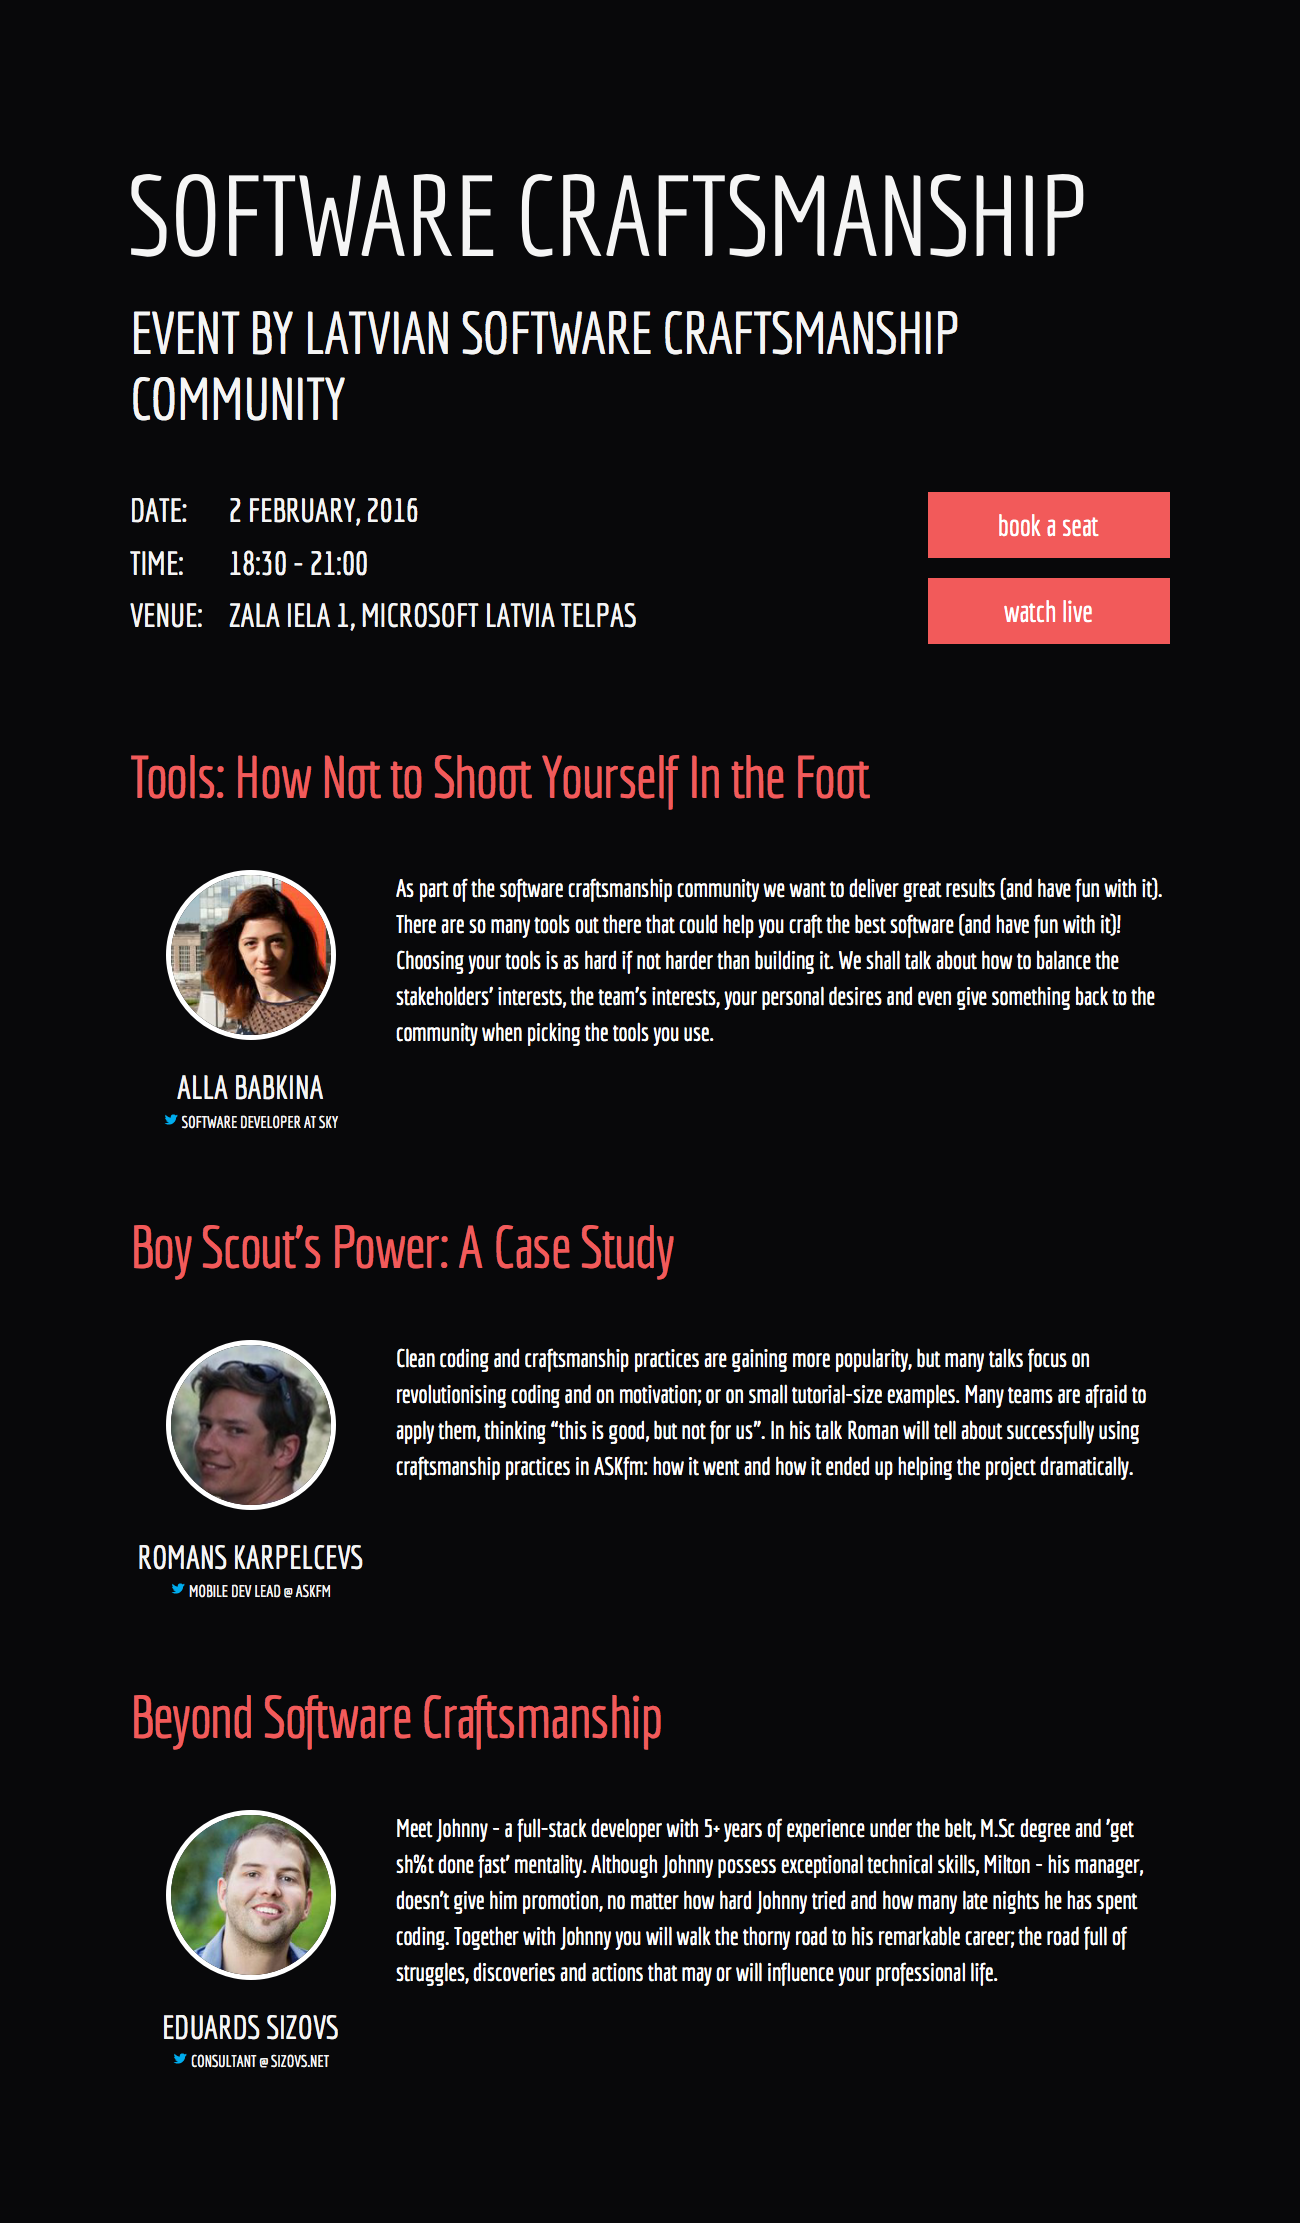
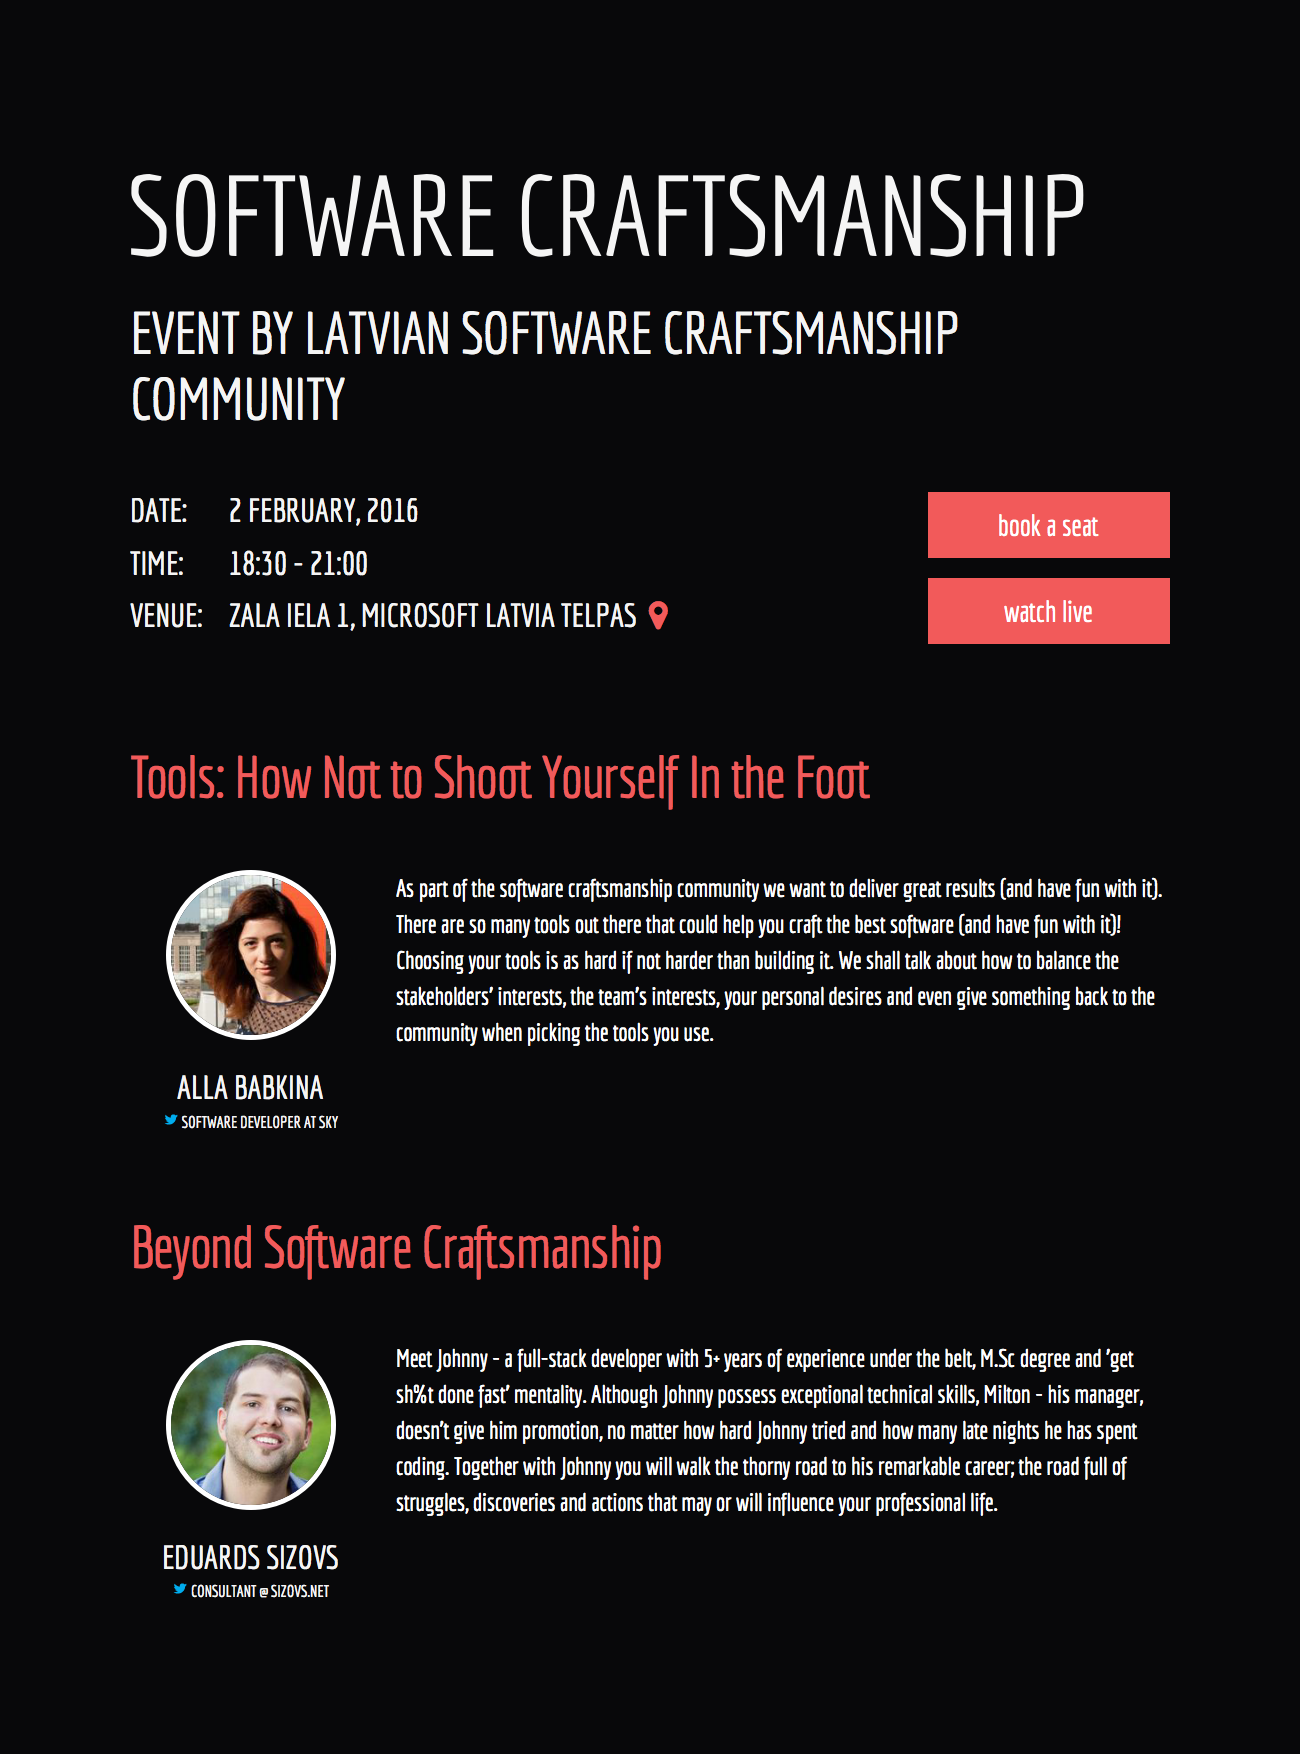
Update 2016-03-01T15:28:00.743Z

Changed region(s): [[0.0923, 0.0616, 0.9231, 0.9544], [0.4308, 0.2463, 0.4923, 0.2771]]

diff --git a/index.html b/index.html
@@ -64,7 +64,7 @@
           <div class="info">
             <h1>We are about IT professionals and spectacular speeches.</h1>
             <p>We are community of awesome Latvian software craftsmen. Each month we host an event where we invite amazing speakers from across the world.</p>
-            <div class="button-group"><a id="join-event" href="#events" class="button big scroll-button">join us on<span>2nd of feb</span></a>
+            <div class="button-group"><a id="join-event" href="#events" class="button big scroll-button">join us on<span>10th of mar</span></a>
               <div class="spliter">or</div><a id="join-devternity" href="http://devternity.com" target="_blank" class="button big opening devternity"> 
                 <div data-hover="DevTernity on 1st of Dec"> <strong>DevTernity</strong>
                   <p>Conference for IT professionals who care about software craftsmanship.</p>
@@ -196,20 +196,7 @@
                 </li>
                 <li>
                   <div class="title-holder">
-                    <h3>(19:35) Boy Scout’s Power: A Case Study
-                    </h3>
-                  </div>
-                  <div class="author"><img src="img/speakers/romans-karpelcevs.png" alt="" class="headshot">
-                    <h5>Romans Karpelcevs<a href="https://twitter.com/cvbk"><img src="img/twitter.png" alt="@cvbk at Twitter"></a>
-                    </h5><span>Mobile Dev Lead @ ASKfm</span>
-                  </div>
-                  <p>Clean coding and craftsmanship practices are gaining more popularity, but many talks focus on revolutionising coding and on motivation; or on small tutorial-size examples. Many teams are afraid to apply them, thinking “this is good, but not for us”. In his talk Roman will tell about successfully using craftsmanship practices in ASKfm: how it went and how it ended up helping the project dramatically.</p>
-                  <div class="button-group">
-                  </div>
-                </li>
-                <li>
-                  <div class="title-holder">
-                    <h3>(20:05) Beyond Software Craftsmanship
+                    <h3>(19:55) Beyond Software Craftsmanship
                     </h3>
                   </div>
                   <div class="author"><img src="img/speakers/eduardsi.jpg" alt="" class="headshot">
@@ -965,7 +952,8 @@
       <div class="container">
         <h2 class="title">Sponsors</h2>
         <ul>
-          <li><img src="img/finabay.png" alt=""></li>
+          <li><img src="img/twino.png" alt=""></li>
+          <li><img src="img/citadele.png" alt=""></li>
         </ul>
         <p>Want to become a sponsor? <a href="mailto:eduards@sizovs.net" class="text-link">Get in touch!</a></p>
       </div>

diff --git a/2016/craftsmanship.html b/2016/craftsmanship.html
@@ -53,15 +53,6 @@
             </div>
             <p class="description">As part of the software craftsmanship community we want to deliver great results (and have fun with it). There are so many tools out there that could help you craft the best software (and have fun with it)! Choosing your tools is as hard if not harder than building it. We shall talk about how to balance the stakeholders' interests, the team's interests, your personal desires and even give something back to the community when picking the tools you use.														</p>
           </section>
-          <h2>Boy Scout’s Power: A Case Study</h2>
-          <section>
-            <div class="bio"><img src="/img/speakers/romans-karpelcevs.png" alt="Romans Karpelcevs" class="headshot">
-              <h3>Romans Karpelcevs</h3>
-              <h4> <a href="https://twitter.com/cvbk"><img src="/img/twitter.png" alt="@cvbk at Twitter"></a><span>&nbsp;Mobile Dev Lead @ ASKfm</span>
-              </h4>
-            </div>
-            <p class="description">Clean coding and craftsmanship practices are gaining more popularity, but many talks focus on revolutionising coding and on motivation; or on small tutorial-size examples. Many teams are afraid to apply them, thinking “this is good, but not for us”. In his talk Roman will tell about successfully using craftsmanship practices in ASKfm: how it went and how it ended up helping the project dramatically.														</p>
-          </section>
           <h2>Beyond Software Craftsmanship</h2>
           <section>
             <div class="bio"><img src="/img/speakers/eduardsi.jpg" alt="Eduards Sizovs" class="headshot">

diff --git a/img/2016/craftsmanship.html b/img/2016/craftsmanship.html
@@ -53,15 +53,6 @@
             </div>
             <p class="description">As part of the software craftsmanship community we want to deliver great results (and have fun with it). There are so many tools out there that could help you craft the best software (and have fun with it)! Choosing your tools is as hard if not harder than building it. We shall talk about how to balance the stakeholders' interests, the team's interests, your personal desires and even give something back to the community when picking the tools you use.														</p>
           </section>
-          <h2>Boy Scout’s Power: A Case Study</h2>
-          <section>
-            <div class="bio"><img src="/img/speakers/romans-karpelcevs.png" alt="Romans Karpelcevs" class="headshot">
-              <h3>Romans Karpelcevs</h3>
-              <h4> <a href="https://twitter.com/cvbk"><img src="/img/twitter.png" alt="@cvbk at Twitter"></a><span>&nbsp;Mobile Dev Lead @ ASKfm</span>
-              </h4>
-            </div>
-            <p class="description">Clean coding and craftsmanship practices are gaining more popularity, but many talks focus on revolutionising coding and on motivation; or on small tutorial-size examples. Many teams are afraid to apply them, thinking “this is good, but not for us”. In his talk Roman will tell about successfully using craftsmanship practices in ASKfm: how it went and how it ended up helping the project dramatically.														</p>
-          </section>
           <h2>Beyond Software Craftsmanship</h2>
           <section>
             <div class="bio"><img src="/img/speakers/eduardsi.jpg" alt="Eduards Sizovs" class="headshot">
